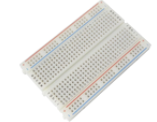
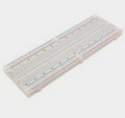
Updated the breadboard and readme

diff --git a/README.md b/README.md
@@ -60,15 +60,52 @@ Here is a sample TOC(*wow! such cool!*) that is actually the TOC for this README
 - [Table of contents](#table-of-contents)
 - [Bill of materials](#bill-of-material)
 - [Installation](#installation)
-<!--- [Usage](#usage)
-- [Development](#development)-->
-<!-- - [Contribute](#contribute)
-    - [Sponsor](#sponsor)
-    - [Adding new features or fixing bugs](#adding-new-features-or-fixing-bugs)
-- [License](#license)-->
+- [Build](#build)
+- [Development](#development)
+- [License](#license)
 - [Footer](#footer)
+<!-- removed this - not sure 
+    - [Contribute](#contribute)
+    - [Sponsor](#sponsor)
+    - [Adding new features or fixing bugs](#adding-new-features-or-fixing-bugs)-->
+
+# Bill-of-material
+![ESP32](./doc/images/esp32.png "Wemos D32 V1.0.0 - ESP32")
+[Wemos D32 V1.0.0 - ESP32](https://opencircuit.nl/product/Wemos-D32-V1.0.0-ESP32-CH340C-4MB-Flash)
+
+![OLED Display](./doc/images/display.png "0.96 OLED Display module")
+[0.96 OLED Display module](https://opencircuit.nl/product/0.96-OLED-Display-module-geel-blauw-I2C)
+
+![DHT22 sensor](./doc/images/dht22.png "DHT22 sensor")
+[DHT22 sensor](https://opencircuit.nl/product/dht22-luchtvochtigheid-en-temperatuur-sensor)
+
+![10KΩ Metalfilm Resistor](./doc/images/10k.png "10KΩ Metalfilm Resistor")
+[10KΩ Metalfilm Resistor](https://opencircuit.nl/product/10K%CE%A9-Metaalfilm-weerstand-1-4W-10-stuks)
+
+![Male-Male cables](./doc/images/cables.png "Male-Male 10cm cables")
+[Male-Male 10cm cables](https://opencircuit.nl/product/male-male-10-cm-bandkabel-40-stuks)
+
+![Breadboard](./doc/images/breadboard.png "Breadboard 830 point")
+[Breadboard 830 point](https://opencircuit.nl/product/breadboard-830-punten-wit)
+
+[(Back to top)](#table-of-contents)
+
+# Build
+Follow the steps to create the build for the Weatherstation on the Breadboard.
+Place the Wemos D32 V1.0.0 - ESP32 onto the breadboard in the middle on the left side with the power usb connector on teh left side.
+Insert the 0.96 OLED Display module into the breadboard next to the ESP32 on the right side.
+Next insert the DHT22 sensor into teh breadboard on the right of the display.
+Follow the instrauctions to connect the components up with the male-male cables.
+
+TODO: Add some more info here....
+
+[(Back to top)](#table-of-contents)
+
+<!-- This is optional and it is used to give the user info on how to use the project after installation. This could be added in the Installation section also. -->
 
 # Installation
+TODO: Add some more info here....
+
 [(Back to top)](#table-of-contents)
 
 <!-- *You might have noticed the **Back to top** button(if not, please notice, it's right there!). This is a good idea because it makes your README **easy to navigate.*** 
@@ -89,21 +126,9 @@ To use this project, first clone the repo on your device using the command below
 
 ```git clone https://github.com/navendu-pottekkat/nsfw-filter.git``` -->
 
-# Bill-of-material
-![ESP32](https://github.com/contraprisma/weatherstation/blob/main/doc/images/esp32.png "Wemos D32 V1.0.0 - ESP32")
-![OLED Display](https://github.com/contraprisma/weatherstation/blob/main/doc/images/display.png "0.96" OLED Display module")
-![DHT22 sensor](https://github.com/contraprisma/weatherstation/blob/main/doc/images/dht22.png "DHT22 sensor")
-![10KΩ Metalfilm Resistor](https://github.com/contraprisma/weatherstation/blob/main/doc/images/10k.png "10KΩ Metalfilm Resistor")
-![Male-Male cables](https://github.com/contraprisma/weatherstation/blob/main/doc/images/cables.png "Male-Male 10cm cables")
-![Breadboard](https://github.com/contraprisma/weatherstation/blob/main/doc/images/breadboard.png "Breadboard 400 point")
-[(Back to top)](#table-of-contents)
-
-<!--# Usage
-[(Back to top)](#table-of-contents)-->
-
-<!-- This is optional and it is used to give the user info on how to use the project after installation. This could be added in the Installation section also. -->
-
 # Development
+TODO: Add some more info here....DO WE ADD DEV INSTRUCTIONS HERE - about code workings?
+
 [(Back to top)](#table-of-contents)
 
 <!-- This is the place where you give instructions to developers on how to modify the code.
